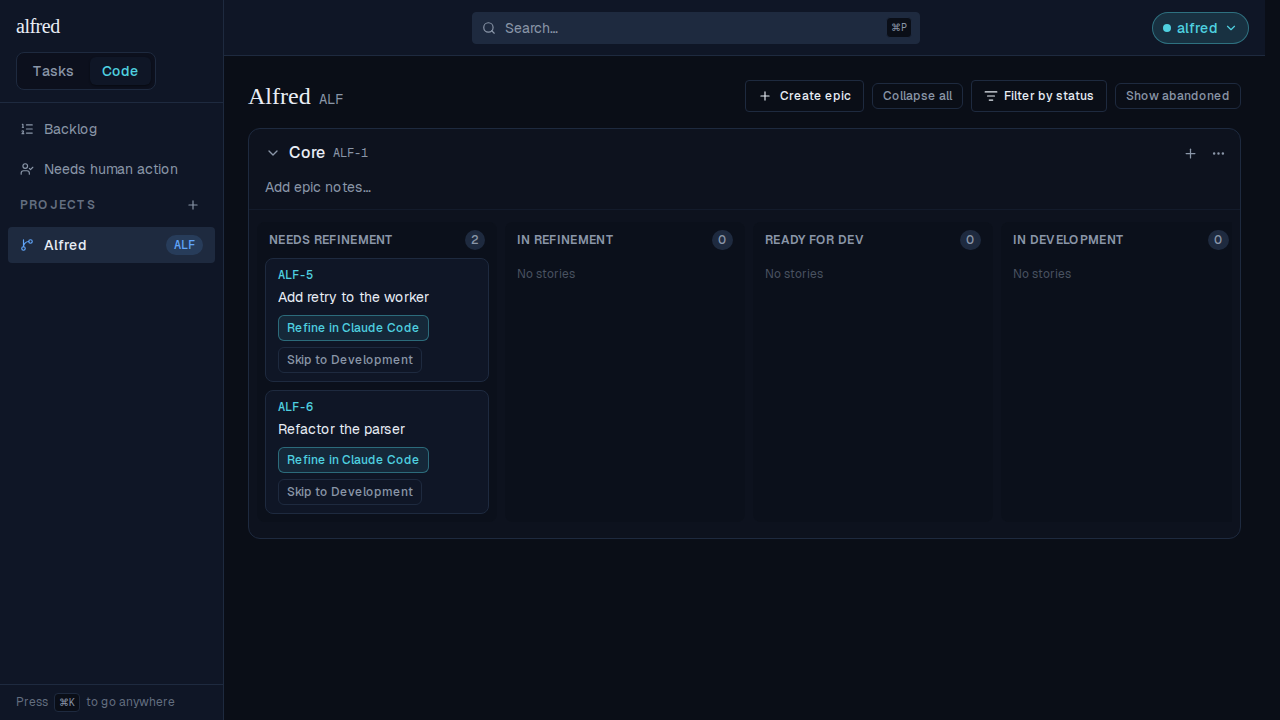
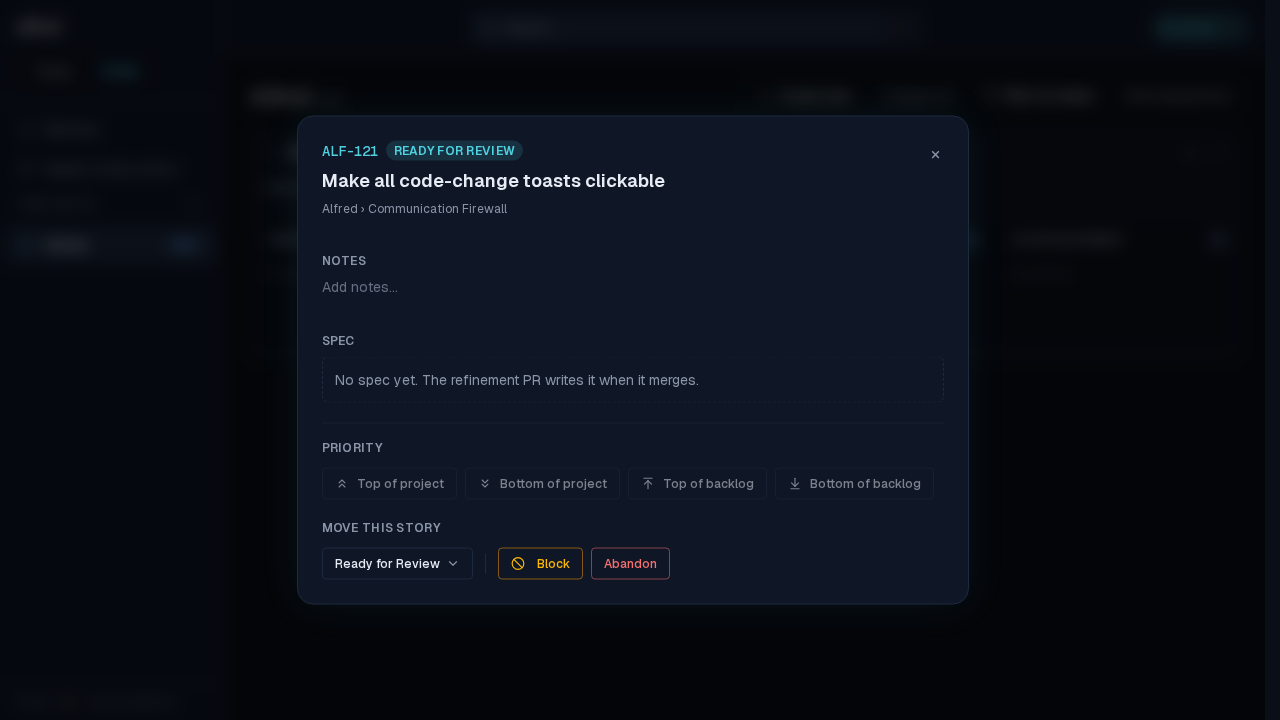
docs(demos): show the whole worker-driven move lifecycle

diff --git a/docs/demos/ALF-121/clickable-code-toasts.md b/docs/demos/ALF-121/clickable-code-toasts.md
@@ -4,28 +4,40 @@ branch: claude/code-change-toasts-clickable-aq7cnp
 
 # ALF-121 — every code-change toast is a way to the change
 
-*2026-07-30T16:12:04.157Z*
+*2026-07-30T17:17:34.857Z*
 
 ALF-68 made the story-creation toast clickable; every other Code-module toast stayed inert text. ALF-121 finishes the job: the realtime **move** alert and the Inbox **bulk send** confirmation now carry an `href` too, so a notification about a code change is also the way to that change.
 
-## The realtime move alert
+## Every Worker-driven move
 
-A refinement PR merges while you're in Tasks. The Worker flips ALF-3 to Ready for Dev out of band and the tab is told over realtime. The alert is now a link (hovered here, revealing its underline) — before ALF-121 it was plain text and finding the card meant switching to Code and hunting for it.
+One toast fires for **every** factory-state change, so the whole PR lifecycle the Worker drives is covered by one code path. Here ALF-121 walks its own: the refinement PR merges, the implementation PR opens, then it merges — each alert arriving while the user is in Tasks, each now a link (hovered here, revealing its underline).
+
+**1 · the refinement PR merged → Ready for Dev.** One click lands on `/code/[projectId]?story=ALF-121` with the detail modal open on the state the alert announced.
 
 ![](clickable-code-toasts-image-1.png)
 
-One click lands on that story's board at `/code/<projectId>?story=ALF-3` with its detail modal open — showing the very state the alert announced, **Ready for Dev**.
-
 ![](clickable-code-toasts-image-2.png)
+
+**2 · the implementation PR opened → Ready for Review.** The alert that used to be a dead end is now the fastest route to the card waiting on you.
+
+![](clickable-code-toasts-image-3.png)
+
+![](clickable-code-toasts-image-4.png)
+
+**3 · the implementation PR merged → Done.** Same for the last move of the lifecycle.
+
+![](clickable-code-toasts-image-5.png)
+
+![](clickable-code-toasts-image-6.png)
 
 ## The Inbox bulk send
 
 Two captures selected in the Inbox and sent through the gate under one project + epic. The confirmation has no single story to open, so it links to the project board the batch just landed on — the destination the ALF-68 demo explicitly left for later.
 
-![](clickable-code-toasts-image-3.png)
+![](clickable-code-toasts-image-7.png)
 
-Clicking it lands on `/code/<projectId>`, where both stories (ALF-5, ALF-6) sit in Needs Refinement under Core.
+Clicking it lands on `/code/[projectId]`, where both stories (ALF-5, ALF-6) sit in Needs Refinement under Core.
 
-![](clickable-code-toasts-image-4.png)
+![](clickable-code-toasts-image-8.png)
 
 Toasts with no navigable target are unchanged: every `Couldn't …` error and the `Prompt copied to clipboard` launch confirmation still render as plain, non-link text.
